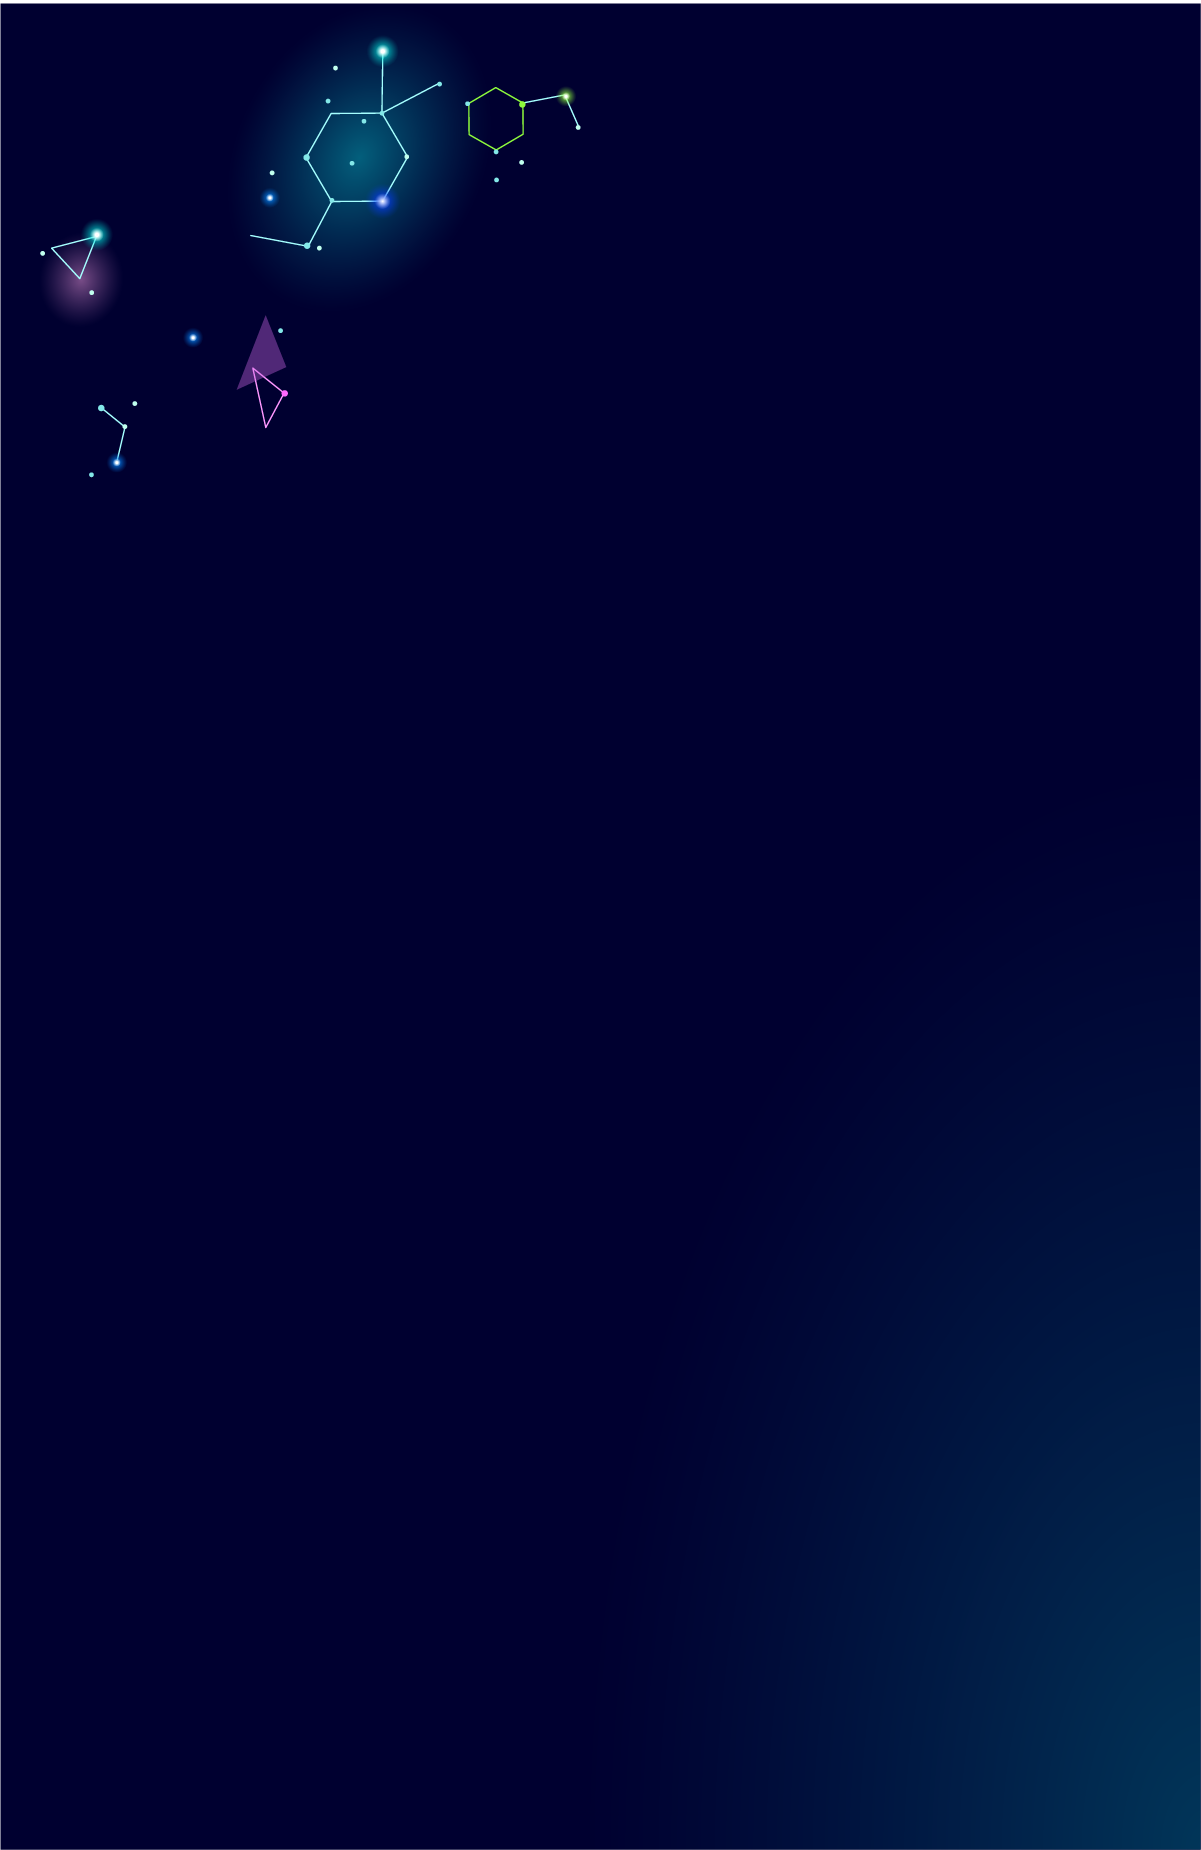
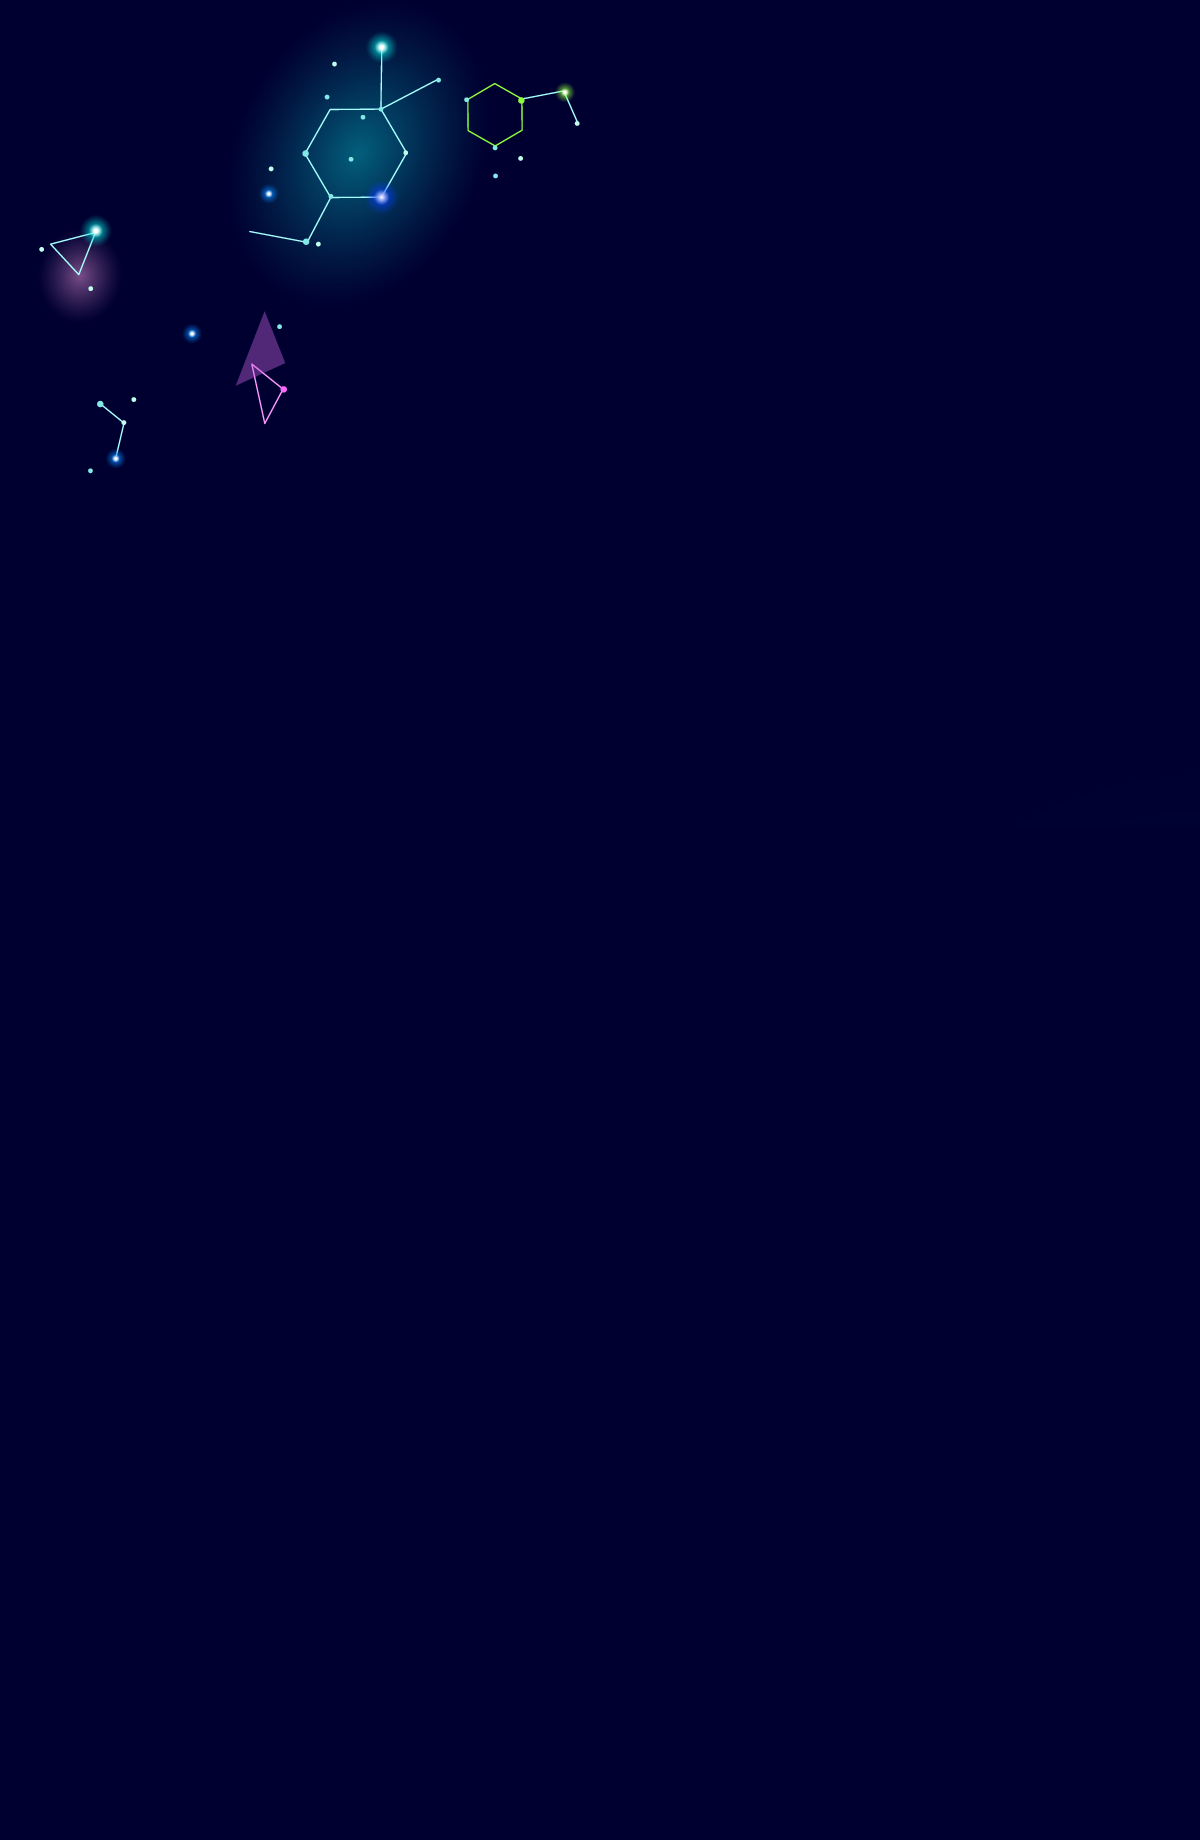
page fixed

diff --git a/index.html b/index.html
@@ -18,26 +18,25 @@
     <script src="https://kit.fontawesome.com/3bc6b6ae05.js" crossorigin="anonymous"></script>
     
     <style>
-    	body {margin:0; font-family: 'Noto Sans KR', sans-serif; font-size: 1rem; font-weight: 400; line-height: 1.5; color: #151515; text-align: left; background-color: #151515; padding:0; margin:0;}
-    	.container {width:100%; max-width:1170px; padding:10px 15px; margin:0 auto; white-space: normal; background:url("images/bg_glowing.png") no-repeat top left; background-size: cover;}
-    	@media (min-width: 576px) {
-
-    	}
-    	
-    	.hr {margin-top: 1rem; margin-bottom: 1rem; border: 0; border-top: 1px solid #cecece; opacity:0.5; width:50%; margin:0 auto;}
+    	body {padding:0; margin:0; font-family: 'Noto Sans KR', sans-serif; font-size: 1rem; font-weight: 400; line-height: 1.5; color: #151515; text-align: left; background-color:#000030; height:100%;}
+    	a {color:#FFF; text-decoration:none;}
+    	h1 {font-size:1.5rem;}
+    	.container {width:100%; margin:0 auto; white-space: normal; background:url("images/bg_glowing.png") no-repeat top left; background-size:cover;}
+    	section {position: relative; margin: 0 auto; padding:0; overflow: hidden;}    	
+    	.hr {margin-top:1rem; margin-bottom:1rem; border: 0; border-top: 1px solid #cecece; opacity:0.5; width:65%; margin:0 auto;}
     	.text-center {text-align:center;}
     	.text-right {text-align:right;}
     	.text-white {color:#FFF;}
-    	.summary {padding:20px;}
+    	.control-button {font-size:1.75rem; padding:10px 10px 20px 10px; margin:0; display:inline-block;}
+    	.summary {width:90%; margin:0 auto; padding:0 0 15px 0; overflow-y:scroll; overflow-x:hidden;}
+    	.summary ::-webkit-scrollbar {width:10px;}
+    	.summary ::-webkit-scrollbar-track {box-shadow: inset 0 0 5px grey; border-radius:5px;}
+    	.summary ::-webkit-scrollbar-thumb {background:#FFF; border-radius:5px;}
     	.summary .title {font-size:1.5rem; font-weight:400;}
-    	.summary .body {color:#cecece;}
-    	h3.control-button {font-size:2rem; padding:1rem 0;}
-    	.summary {overflow-y:auto; overflow-x:hidden;}
-    	.footer {font-size:0.75rem; padding: 10px 0; color:#ddd}
-    	.qr {font-size:0.75rem; padding:10px;}
+    	.summary .body {color:#cecece; overflow-y:scroll; height:330px;}    	
+    	.footer {font-size:0.75rem; padding:20px;color:#ddd;}
+    	.qr {font-size:0.75rem; padding:20px;}
     	.qr img {width:70px;}
-    	a {color:#FFF; text-decoration:none;}
-
     </style>
     
 	<body>
@@ -47,15 +46,15 @@
     		<!-- start play control -->
     		<section>
     			<div class="text-center text-white">
-    				<h3 class="control-button" id="playButton" style="display:none;cursor:pointer;"><i class="far fa-play-circle"></i> 듣기</h3>
-    				<h3 class="control-button" id="stopButton" style="display:none;cursor:pointer;"><i class="far fa-stop-circle"></i> 정지</h3>
-    				<h3 class="control-button" id="pauseButton" style="display:none;cursor:pointer;"><i class="far fa-pause-circle"></i> 일시정지</h3>
+    				<div class="control-button" id="playButton" style="display:none;cursor:pointer;"><i class="far fa-play-circle"></i> 듣기</div>
+    				<div class="control-button" id="stopButton" style="display:none;cursor:pointer;"><i class="far fa-stop-circle"></i> 정지</div>
+    				<div class="control-button" id="pauseButton" style="display:none;cursor:pointer;"><i class="far fa-pause-circle"></i> 일시정지</div>
     			</div>
     		</section>
 
     		<div class="text-center text-white">
-        		<H1 id="loaderMent">잠시만 기다려 주세요.</H1>
-        		<H1 id="endMent">소개가 끝났습니다.</H1>
+        		<h1 id="loaderMent">잠시만 기다려 주세요.</h1>
+        		<h1 id="endMent">소개가 끝났습니다.</h1>
     		</div>
     		<!-- end play control -->
     		

diff --git a/1.html b/1.html
@@ -1,5 +1,5 @@
 <p class="title text-center text-white">제목</p>
-<p class="body" style="overflow-y: scroll; height:300px;">
+<p class="body">
     Lorem ipsum dolor sit amet, consectetur adipiscing elit.
     In nec sapien a ante blandit gravida sit amet cursus est. 
     Proin ac rutrum lectus. Mauris facilisis metus ac diam egestas, a aliquam dui efficitur. 
